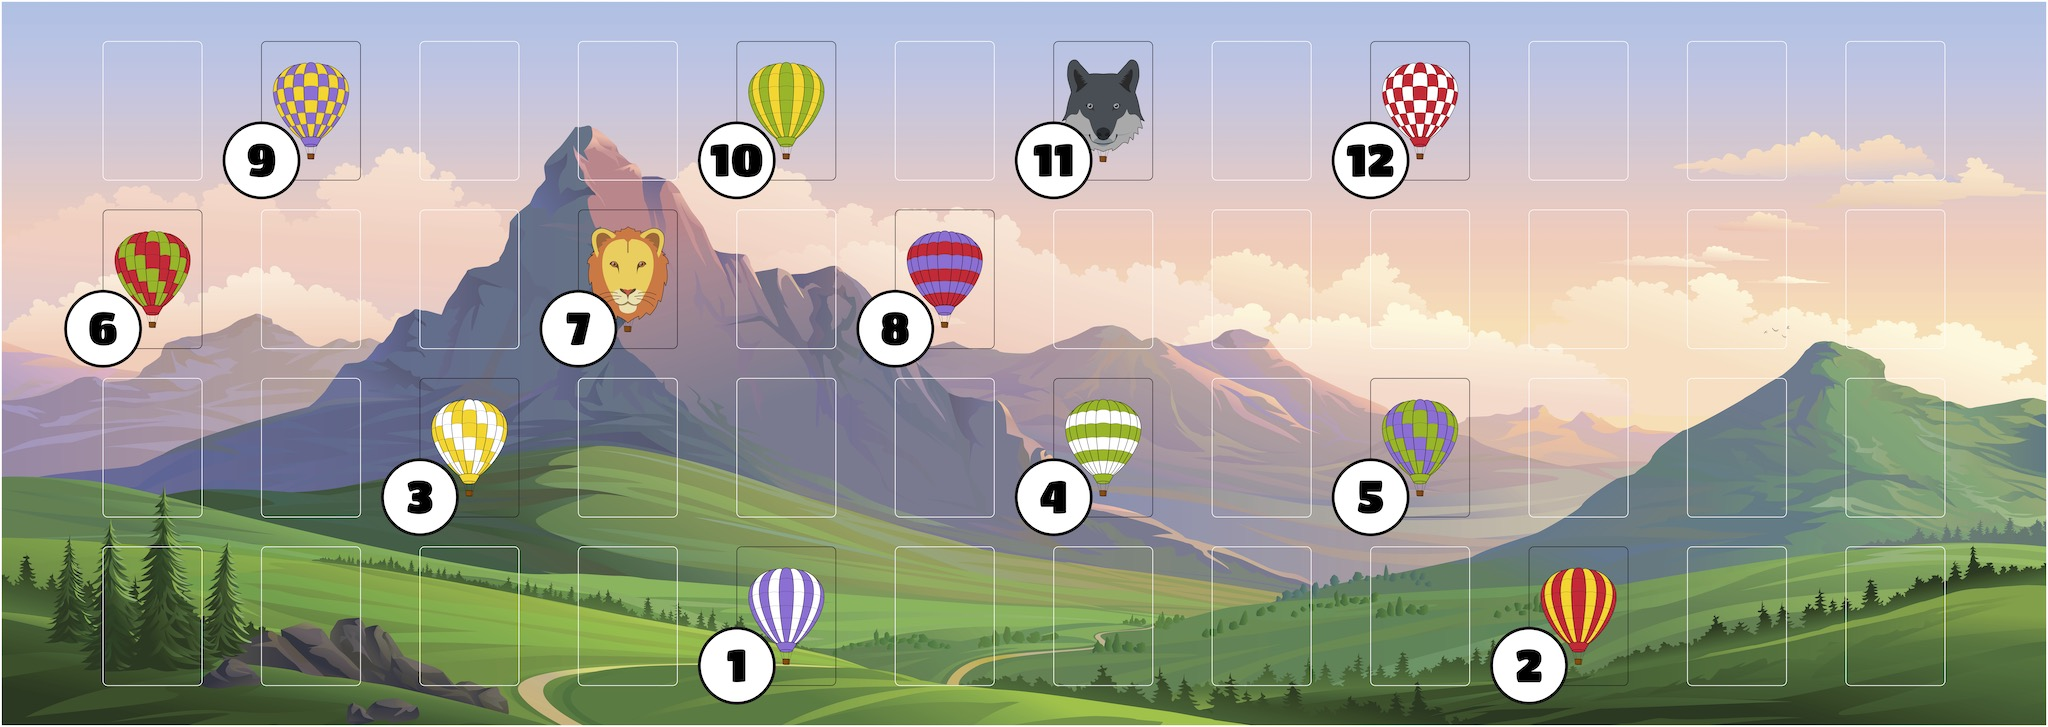
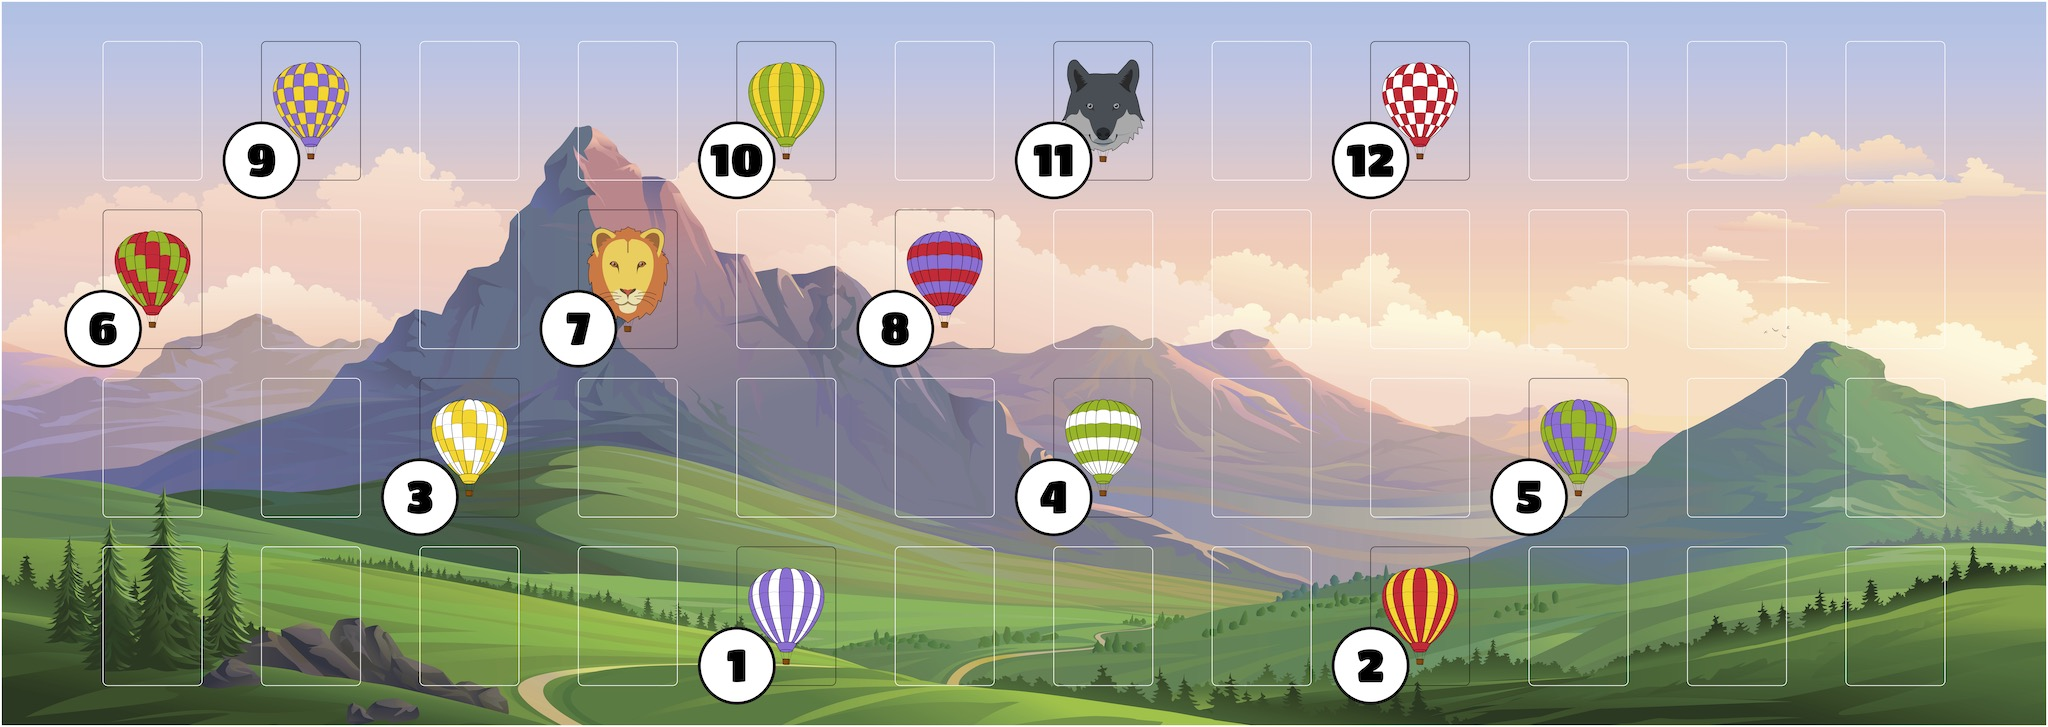
Update rules and scoring diagram.

Changed region(s): [[0.625, 0.5447, 0.8125, 0.7565], [0.625, 0.7565, 0.8125, 0.9684]]

diff --git a/scoring_diagram.tex b/scoring_diagram.tex
@@ -41,14 +41,14 @@
 \node[cardposition] at (-20, 4.25) {\includegraphics[height=3.25in]{Images/horiz_gw.png}};
 \node[circle] at (-21.25,3) {\includegraphics[width=50mm]{Images/scoring_token_4.png}};
 
-\node[cardposition] at (-8, 0) {\includegraphics[height=3.25in]{Images/vert_ry.png}};
-\node[circle] at (-9.25,-1.25) {\includegraphics[width=50mm]{Images/scoring_token_2.png}};
+\node[cardposition] at (-12, 0) {\includegraphics[height=3.25in]{Images/vert_ry.png}};
+\node[circle] at (-13.25,-1.25) {\includegraphics[width=50mm]{Images/scoring_token_2.png}};
 
 \node[cardposition] at (-12, 12.75) {\includegraphics[height=3.25in]{Images/grid_rw.png}};
 \node[circle] at (-13.25,11.5) {\includegraphics[width=50mm]{Images/scoring_token_12.png}};
 
-\node[cardposition] at (-12, 4.25) {\includegraphics[height=3.25in]{Images/diag_gp.png}};
-\node[circle] at (-13.25,3) {\includegraphics[width=50mm]{Images/scoring_token_5.png}};
+\node[cardposition] at (-8, 4.25) {\includegraphics[height=3.25in]{Images/diag_gp.png}};
+\node[circle] at (-9.25,3) {\includegraphics[width=50mm]{Images/scoring_token_5.png}};
 
 \end{tikzpicture}
 

diff --git a/README.md b/README.md
@@ -30,8 +30,8 @@ The number of special shape cards, truck cards, and scoring tokens that you will
   1. If you are playing a competitive game, deal one colour card at random to each player. Your colour card will determine the colour of balloons with which you are _affiliated_. Do not reveal this card to the other players until the end of the game. If you are playing a cooperative game, then you should skip this step.
      - Each regular balloon card is affiliated with two of the five possible colours.  The colours that a balloon card is affiliated with are the colours of the envelope of the balloon depicted on that card. Special shape cards are not affiliated with any colour. 
   2.  Collect the truck cards that you will use during your game. Set one truck card aside. Place the remaining truck cards in a single row below the left-hand side of the game board. These truck cards comprise the _launch zone_. The rightmost truck card in the launch zone is called the _lead truck_.
-  3. Place the truck card that you set aside in the previous set below the middle of the launch zone. This truck card is the _safety vehicle_.
-  4.  Collect the regular balloon cards and special shape cards that you will use during your game (see Components above for details). These cards will comprise the _balloon deck_.
+  3. Collect the truck card that you set aside in the previous step. Place it below the middle of the launch zone. This truck card is the _safety vehicle_.
+  4.  Collect the regular balloon cards and special shape cards that you will use during your game. These cards will comprise the _balloon deck_.
   5.  If you are playing a cooperative game, shuffle the balloon deck. If you are playing a competitive game, then you should skip this step. 
   6.  Place the balloon deck below the launch zone. In a competitive game, you should spread the balloon cards on the table so that they are all visible.
   7. Place the scoring tokens below the play area.
@@ -65,7 +65,7 @@ To advance a balloon, you move a balloon from its current state to the next.
 If any balloons are flying, then before you advance a balloon you will move a truck. Trucks always move from left to right. The game ends immediately when the lead truck moves past the rightmost column of the tableau.
 
 When you move a truck, you will do one of the following:
-  - If the truck cards are in adjacent columns and the safety vehicle is centered on the launch zone (e.g. the starting position), or if there are no cards remaining in the balloon deck, then you should move the rightmost truck one column to the right.
+  - If the truck cards are in adjacent columns and the safety vehicle is centered on the launch zone (e.g. the starting position) then you should move the rightmost truck one column to the right.
 
   ![Moving a truck when the trucks are in a single group and the safety vehicle is centered on the launch zone.](wind_diagram_1.jpg)
 
@@ -73,11 +73,11 @@ When you move a truck, you will do one of the following:
 
   ![Moving a truck when the the trucks are in two groups.](wind_diagram_2.jpg)
 
-  - If all of the truck cards are in adjacent rows, but the safety vehicle is not centered on the launch zone (e.g. after each of the truck cards has been moved one time), then you should slide the safety vehicle one position to the right so that it is centered on the launch zone.
+  - If all of the truck cards are in adjacent rows, but the safety vehicle is not centered on the launch zone (e.g. after each of the truck cards in the launch zone has been moved one time), then you should slide the safety vehicle one position to the right so that it is centered on the launch zone.
 
   ![Moving a truck when the trucks are in a single group and the safety vehicle is not centered on the launch zone.](wind_diagram_3.jpg)
 
-__Note:__ Any balloon cards that are in the launch zone (i.e. balloons that are in the unpacked or inflated states) should accompany the truck card on which they have been placed if/when that truck card is moved. 
+__Note:__ Any balloon cards that are in the launch zone (i.e. balloons that are in the unpacked or inflated states) should accompany the truck card on which they have been placed when that truck card is moved. 
 
 ## Scoring
 After the game ends, you should compute your score.
@@ -90,7 +90,9 @@ In a competitive game, each balloon scores a number of points that is determined
 
 More precisely, each balloon scores a number of points equal to one plus the number of balloons flying at a lower altitude than itself plus the number of balloons flying at the same altitude as itself but behind it (to the left) in the formation. You should use the scoring tokens to indicate how many points each balloon scores.
 
-For example, the leftmost balloon in the bottom row of the formation always scores one point while the rightmost balloon in the top row of the formation scores one point for every balloon that is flying at the end of the game.  
+Use the scoring tokens to indicate the number of points scored by each balloon. Place the scoring token numbered "1" on the leftmost balloon in the bottom row of the formation. Scanning from left to right, place scoring tokens on the remaining balloons in the bottom row of the formation, always placing the token with lowest remaining number. Then proceed to the next highest row of the formation. Continue in this fashion, scanning from left to right and bottom to top, until each balloon that is flying has been assigned a scoring token.
+
+Notice that the leftmost balloon in the bottom row of the formation always scores one point while the rightmost balloon in the top row of the formation scores one point for every balloon that is flying at the end of the game. See the figure below for a more complete example.
 
 Your score is the sum of the scores for all of the balloons with which you are affiliated. You should reveal your colour card when you announce your score so that everyone can verify that the required computations have been performed correctly. The player with the highest score wins the game.
 
